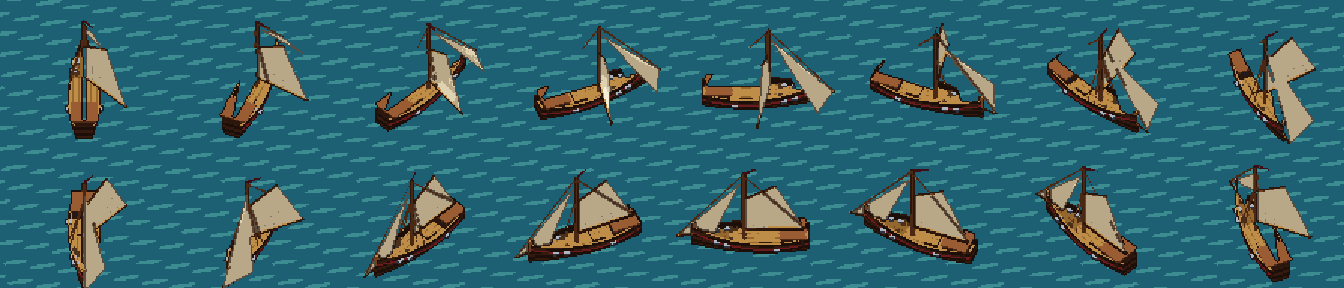
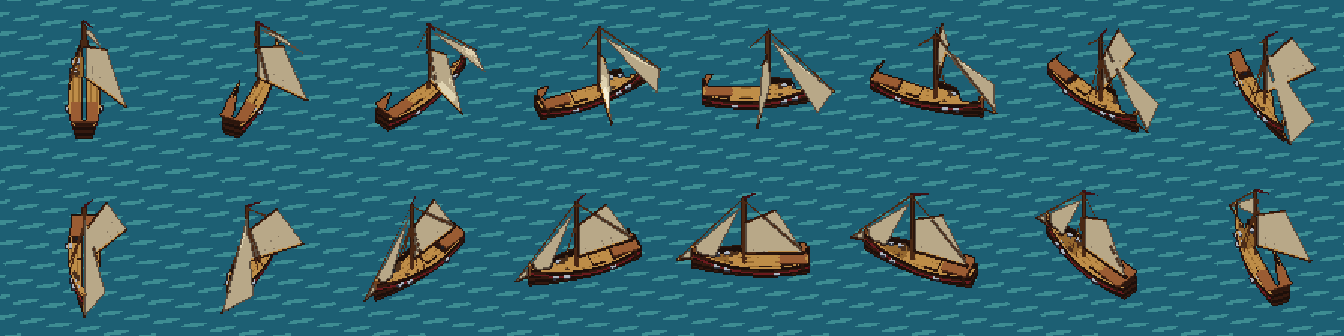
H2D-0: art checker (fixes clipped bow frames and palm), check_all hooks, H2D0_PROTOTYPE.md, Canon v1.4; NOT run in Godot

diff --git a/pixel_pirates/tools/h2d/check_h2d_art.py b/pixel_pirates/tools/h2d/check_h2d_art.py
@@ -1,0 +1,175 @@
+"""Checks the H2D-0 baked art (ship sheets, island maps, tree atlas). Fails on hard errors, only WARNS on readability.
+
+  python tools/h2d/check_h2d_art.py            # run the checks
+  python tools/h2d/check_h2d_art.py --sheet    # also write art_bible/h2d0/ship_adjacent_xor.png
+
+Hard checks: sheet sizes, nothing touches a frame border, the pivot is inside the silhouette's box, colour counts within
+the A3 palette limits (ships 40 colours, 6 ramps), every ship colour comes from palette.json, no #000000 / #ffffff.
+Readability metric: silhouette IoU between neighbouring headings (22.5 deg apart). Too high (> 0.93) means the turn is
+hard to read at that heading; too low (< 0.45) means a visible pop. These are WARNINGS: they quantify, not judge.
+"""
+from __future__ import annotations
+
+import argparse
+import json
+import sys
+from pathlib import Path
+
+import numpy as np
+from PIL import Image
+
+ROOT = Path(__file__).resolve().parents[2]
+ART = ROOT / "game" / "h2d" / "art"
+IOU_HIGH = 0.93
+IOU_LOW = 0.45
+errors: list[str] = []
+warnings: list[str] = []
+
+
+def fail(msg: str) -> None:
+    errors.append(msg)
+
+
+def load(name: str) -> np.ndarray:
+    return np.array(Image.open(ART / name).convert("RGBA"))
+
+
+def colours(a: np.ndarray, alpha_min: int = 128) -> set[str]:
+    m = a[..., 3] >= alpha_min
+    return {"#%02x%02x%02x" % tuple(px) for px in a[m][:, :3]}
+
+
+def palette() -> tuple[dict[str, str], dict]:
+    doc = json.loads((ROOT / "game" / "data" / "look" / "palette.json").read_text())
+    owner: dict[str, str] = {}
+    for rid, ramp in doc["ramps"].items():
+        for c in ramp:
+            owner[c.lower()] = rid
+    return owner, doc["limits"]
+
+
+def check_ship(sheet: bool) -> None:
+    meta = json.loads((ART / "ship_sloop.json").read_text())
+    fw, fh = meta["frame_px"]
+    n = meta["headings"]
+    hull = load(meta["hull_sheet"])
+    sails = load(meta["sail_sheet"])
+    rows = len(meta["trims_deg"])
+    if hull.shape[:2] != (fh, fw * n):
+        fail(f"hull sheet size {hull.shape[:2]} != {(fh, fw * n)}")
+        return
+    if sails.shape[:2] != (fh * rows, fw * n):
+        fail(f"sail sheet size {sails.shape[:2]} != {(fh * rows, fw * n)}")
+        return
+    owner, limits = palette()
+    cols = colours(hull) | colours(sails)
+    used = {owner[c] for c in cols if c in owner}
+    outside = sorted(c for c in cols if c not in owner)
+    if outside:
+        fail(f"ship colours not in palette.json: {outside[:6]}")
+    if len(cols) > limits["max_colours_per_sheet"]["ships"]:
+        fail(f"ship colours {len(cols)} > limit {limits['max_colours_per_sheet']['ships']}")
+    if len(used) > limits["max_ramps_per_asset"]["ships"]:
+        fail(f"ship ramps {len(used)} > limit {limits['max_ramps_per_asset']['ships']}")
+    for bad in limits["forbidden"]:
+        if bad in cols:
+            fail(f"forbidden colour {bad} in ship art")
+    px, py = meta["pivot_px"]
+    sil: list[np.ndarray] = []
+    for k in range(n):
+        h = hull[:, k * fw:(k + 1) * fw]
+        for r in range(rows):
+            s = sails[r * fh:(r + 1) * fh, k * fw:(k + 1) * fw]
+            comp = np.where(s[..., 3:4] >= 128, s, h)
+            a = comp[..., 3] >= 128
+            if not a.any():
+                fail(f"empty frame heading {k} trim {r}")
+                continue
+            if a[0].any() or a[-1].any() or a[:, 0].any() or a[:, -1].any():
+                fail(f"frame touches its border: heading {k} trim {r}")
+            ys, xs = np.nonzero(a)
+            if not (xs.min() <= px <= xs.max() and ys.min() <= py <= ys.max()):
+                fail(f"pivot outside the silhouette box: heading {k} trim {r}")
+            if r == 2:
+                sil.append(a)
+    ious = []
+    for k in range(n):
+        a, b = sil[k], sil[(k + 1) % n]
+        ious.append(float((a & b).sum()) / float((a | b).sum()))
+    print("adjacent-heading silhouette IoU (trim 0 deg), heading k -> k+1:")
+    for k, v in enumerate(ious):
+        flag = ""
+        if v > IOU_HIGH:
+            flag = "  WEAK (hard to read the turn)"
+            warnings.append(f"heading {k * 22.5:g}->{((k + 1) % n) * 22.5:g}: IoU {v:.2f} > {IOU_HIGH}")
+        elif v < IOU_LOW:
+            flag = "  POP"
+            warnings.append(f"heading {k * 22.5:g}->{((k + 1) % n) * 22.5:g}: IoU {v:.2f} < {IOU_LOW}")
+        print(f"  {k * 22.5:6.1f} -> {((k + 1) % n) * 22.5:6.1f}  {v:.3f}{flag}")
+    print(f"  min {min(ious):.3f}  mean {sum(ious) / n:.3f}  max {max(ious):.3f}")
+    print(f"ship: {len(cols)} colours, {len(used)} ramps ({', '.join(sorted(used))})")
+    if sheet:
+        out = np.zeros((fh, fw * n, 3), np.uint8)
+        for k in range(n):
+            a, b = sil[k], sil[(k + 1) % n]
+            f = out[:, k * fw:(k + 1) * fw]
+            f[a & b] = (150, 150, 150)
+            f[a & ~b] = (230, 90, 60)
+            f[~a & b] = (60, 150, 230)
+        dst = ROOT / "art_bible" / "h2d0" / "ship_adjacent_xor.png"
+        Image.fromarray(out).resize((fw * n * 2, fh * 2), Image.NEAREST).save(dst)
+        print("wrote", dst)
+
+
+def check_island() -> None:
+    owner, limits = palette()
+    meta = json.loads((ART / "island_anvil.json").read_text())
+    albedo = load("island_anvil_albedo.png")
+    cols = colours(albedo)
+    outside = sorted(c for c in cols if c not in owner)
+    if outside:
+        fail(f"island albedo colours not in palette.json: {outside[:6]}")
+    cap = limits["max_colours_per_sheet"]["tiles"] + limits["max_colours_per_sheet"]["props"]
+    if len(cols) > cap:
+        fail(f"island albedo colours {len(cols)} > {cap}")
+    data = load("island_anvil_data.png")
+    if data.shape[:2] != albedo.shape[:2]:
+        fail("island data map size differs from albedo")
+    if load("island_anvil_normal.png").shape[:2] != albedo.shape[:2]:
+        fail("island normal map size differs from albedo")
+    print(f"island: {albedo.shape[1]}x{albedo.shape[0]} px, {len(cols)} albedo colours, size {meta.get('size_m')} m")
+    atlas = load("trees_atlas.png")
+    tc = colours(atlas)
+    out_t = sorted(c for c in tc if c not in owner)
+    if out_t:
+        fail(f"tree atlas colours not in palette.json: {out_t[:6]}")
+    if len(tc) > limits["max_colours_per_sheet"]["props"]:
+        fail(f"tree atlas colours {len(tc)} > {limits['max_colours_per_sheet']['props']}")
+    cw, ch = 48, 56
+    if atlas.shape[1] % cw or atlas.shape[0] % ch:
+        fail("tree atlas size is not a multiple of 48 x 56")
+    else:
+        for r in range(atlas.shape[0] // ch):
+            for c in range(atlas.shape[1] // cw):
+                cell = atlas[r * ch:(r + 1) * ch, c * cw:(c + 1) * cw, 3] >= 128
+                if cell.any() and (cell[0].any() or cell[-1].any() or cell[:, 0].any() or cell[:, -1].any()):
+                    fail(f"tree cell ({c},{r}) touches its border")
+    print(f"trees: {len(tc)} colours, atlas {atlas.shape[1]}x{atlas.shape[0]}")
+
+
+def main() -> int:
+    ap = argparse.ArgumentParser()
+    ap.add_argument("--sheet", action="store_true")
+    a = ap.parse_args()
+    check_ship(a.sheet)
+    check_island()
+    for w in warnings:
+        print("WARN", w)
+    for e in errors:
+        print("FAIL", e)
+    print("PASS" if not errors else f"{len(errors)} ERROR(S)", f"({len(warnings)} readability warning(s))")
+    return 1 if errors else 0
+
+
+if __name__ == "__main__":
+    sys.exit(main())

diff --git a/pixel_pirates/tools/check_all.py b/pixel_pirates/tools/check_all.py
@@ -65,6 +65,8 @@ def main() -> int:
         ("ocean tests (world invariants, wildlife seed, slice route, golden fixtures)", [PY, "tools/data_tools/test_ocean.py"], ROOT),
         ("GDScript logic parity (ocean.gd, wildlife.gd and sea_state.gd translated and replayed; NOT a Godot run)", [PY, "tools/data_tools/gd_logic_check.py"], ROOT),
     ]
+    steps.append(("H2D-0 art checks (borders, palette, heading silhouettes)", [PY, "tools/h2d/check_h2d_art.py"], ROOT))
+    steps.append(("H2D-0 shader checks (transpile to GLSL + glslang; lenient, NOT Godot)", [PY, "tools/h2d/check_shaders.py"], ROOT))
     if not a.quick:
         steps.append(("island kit tests", [PY, "tools/island_kit/test_island_kit.py"], ROOT))
     gdlint, gdparse = tool("gdlint"), tool("gdparse")

diff --git a/pixel_pirates/tools/h2d/bake_island.py b/pixel_pirates/tools/h2d/bake_island.py
@@ -238,7 +238,7 @@ def _outline(canvas, name):
 def sprite_palm(variant: int) -> np.ndarray:
     c = np.zeros((CELL_H, CELL_W, 4), dtype=np.uint8)
     rs = np.random.RandomState(100 + variant)
-    lean = [-2.0, 2.6][variant]
+    lean = [-2.0, 1.4][variant]
     pts = []
     for i in range(0, 25):
         t = i / 24.0
@@ -257,7 +257,7 @@ def sprite_palm(variant: int) -> np.ndarray:
     n_f = 11
     for f in range(n_f):
         ang = (f / n_f) * 2 * math.pi + 0.3 * variant
-        length = 14 + 3 * math.sin(f * 2.1)
+        length = 13 + 2.5 * math.sin(f * 2.1)
         for s in range(0, 41):
             t = s / 40.0
             fx = top[0] + math.cos(ang) * length * t

diff --git a/pixel_pirates/tools/h2d/bake_ship.py b/pixel_pirates/tools/h2d/bake_ship.py
@@ -28,7 +28,7 @@ ROOT = Path(__file__).resolve().parents[2]
 PITCH_DEG = 48.0
 PPM = 3.6  # pixels per metre at the art grid
 SS = 4
-FW, FH = 112, 96
+FW, FH = 112, 112
 PIVOT = (56, 66)  # the pixel that sits on the water line at the ship's position
 LIGHT = np.array([-0.5, 0.95, -0.6])
 LIGHT = LIGHT / np.linalg.norm(LIGHT)

diff --git a/pixel_pirates/docs/H2D0_PROTOTYPE.md b/pixel_pirates/docs/H2D0_PROTOTYPE.md
@@ -1,0 +1,62 @@
+# H2D-0: the representative HD-2D ocean scene (PROTOTYPE, NOT YET RUN IN GODOT)
+
+**Status, stated plainly.** Everything below was written and statically checked in a sandbox that cannot run Godot. No shader has been compiled by Godot, no script has run, no frame has been rendered, and **no performance number exists**. What did run: the Python art bakers, the art checker, a GLSL syntax pass over the shaders, gdparse/gdlint on the scripts, and a Python replay of the pure logic. The look, the colour transfer and the speed on the dev PC are all unknown until the user runs it.
+Also unconfirmed: the E1b self-test. The user reported "it works", but `build\slice_selftest.txt` never arrived, so the GPU, driver and OpenGL version of the HD 3000 are still unknown, and E2 stays blocked.
+
+## 1. What the scene is
+One playable ocean scene (`game/h2d/h2d0.tscn`): a pixel-art sloop (16 headings x 5 sail trims, wind-aware) on an animated ocean, with one island, Anvil Cay (160 m, 93 trees, a hill), in the real E1 weather (checkpoints 1-7). The simulation is the validated E1 one (Ocean, SeaState, world clock, weather smoothing). Only the picture is new, behind the single `SeaView` interface (D1):
+
+| Path | File | What it is |
+|---|---|---|
+| 3D | `sea_view_3d.gd` | Real 3D scene in the Compatibility renderer, drawn into a SubViewport at the art grid and shown with nearest-neighbour upscaling. Camera FOV 22 deg, pitch 48 deg, north-up (D3). Sprites are billboards with depth bias; ocean, island and shadows are shaders; our own tilt-shift/grade/posterise post pass (Compatibility has no DOF blur). |
+| 2D | `sea_view_2d.gd` | The E1 painter (`sea_painter.gd`) wrapped as the lightweight fallback. Still the side-view prototype look; kept only as a fallback. |
+
+Quality profiles (3D): **dev_lite** 640x360, ocean mesh div 64, 6 shadow steps, posterise 12; **standard** 1280x720, div 128, 10 steps, posterise 16; **ultra** 1920x1080, div 192, 12 steps, posterise 24. Dev-Lite is a setting, not the product: the final game keeps full quality on capable hardware.
+
+## 2. How to run (Windows)
+Same Godot lookup as the slice: `tools\godot_path.txt` or `GODOT_EXE`. From the project folder:
+- `tools\run_h2d0.bat` interactive. If the window is black or Godot reports an OpenGL error, try `tools\run_h2d0.bat angle` (forces the ANGLE/Direct3D 11 driver; whether it works on an HD 3000 is unverified).
+- `tools\run_h2d0_bench.bat` (or `... angle`): about 80 s, hands off. Writes `build\h2d0_bench.txt`, `build\h2d0_bench_01.png` ... one screenshot per phase, and `build\h2d0_console.txt` (all Godot output, including shader errors).
+- Keys: A/D steer, 1-7 weather, P pause, R reset ship, F1 quality, F2 3D/2D, F3 HUD, F4 flip colour transfer, F12 screenshot, `[` `]` pitch, `-` `=` exposure, `,` `.` visual speed, B benchmark.
+
+**What to send back:** `build\h2d0_bench.txt`, the screenshots (at least `h2d0_bench_01.png`, `_04`, `_06`), and `build\h2d0_console.txt`. Also, if the first run looks wrong (too dark, washed out, black), press F4 and say what changed. If there is a black window or an error, send only `h2d0_console.txt`.
+
+## 3. The benchmark
+11 phases, each 1.5 s warm-up + 5 s measured, vsync off, the ship steered by a fixed sine so it turns and sails:
+3D Dev-Lite x5 (checkpoints 2, 1, 4, 6, 7), 3D Standard x3 (2, 1, 6), 3D Ultra x1 (2), 2D x2 (2, 6).
+Per phase: average fps, 1% low fps, worst frame ms, draw calls, objects, triangles, VRAM, and a picture sanity check (not flat, not black/white, not magenta). Header: adapter, vendor, API, driver, renderer, CPU, RAM, window size, colour-transfer result.
+**Target (provisional, mine):** Dev-Lite average >= 30 fps and 1% low >= 20 fps in every phase. Standard and Ultra rows are information only. The report states MEETS TARGET or BELOW TARGET from the measured numbers; it never says passed otherwise.
+
+## 4. Decisions made here (all PROVISIONAL, owner H2D-1)
+- **Scale:** 1 scene metre = 10 world metres; scene speed = world speed / 10. A 5 kn sloop moves 24.7 scene m/s (`scene_speed_ms`); the sloop is about 22 scene m long. This is a presentation scale, chosen so a ship crosses the screen in seconds; it needs a decision in H2D-1.
+- **Ship art:** 112 x 112 px frames, pivot (56, 66), 3.6 px per metre, 22 colours from 6 palette ramps. Sheet = 16 headings (22.5 deg) x 5 trim rows (-80, -45, 0, 45, 80 deg boom angle). The sail row comes from the wind angle: |rel| < 50 deg row 2; 50-110 rows 1/3; >= 110 rows 0/4; side by wind side.
+- **Waves:** four summed sines (46/27/15/8.5 m wavelengths), computed in the ocean shader and mirrored in `wave_model.gd` so the ship bobs with the water (bob snapped to whole art pixels).
+- **Light:** `light_model.gd`: sun 05-19 h, noon elevation = clamp(78 - 0.55|lat|, 18, 78), moon at night, cloud/storm grey the key light, fog density from visibility, lightning pulse about every 7 s in a storm.
+- **Loading:** PNGs are loaded with `Image.load_from_file` (not the import pipeline), to avoid VRAM compression that would corrupt pixel art. Global shader uniforms `h2d_*` are registered at start-up.
+- **Colour transfer:** the Compatibility 3D pass may or may not apply an sRGB encode; the scene draws a known 0.5 grey quad, reads it back and picks gamma 2.2 or 1.0 (`calibration_note`, F4 flips it by hand).
+- **Grounding:** the ship cannot enter cells where the island height is above 0.3 m; it stops and says AGROUND.
+
+## 5. What the checks cover, and what they do not
+| Check | Covers | Does NOT cover |
+|---|---|---|
+| `tools/h2d/check_h2d_art.py` | sheet sizes, no sprite touches its frame border, pivot inside the silhouette, every colour in `palette.json`, colour and ramp limits, adjacent-heading silhouette IoU | whether the art looks good |
+| `tools/h2d/check_shaders.py` | each shader transpiled to GLSL and run through glslang (undeclared names, type mismatches; mutation-tested) | anything Godot-specific: render modes, built-in availability per stage, global uniform registration, `pow(x, 3)` int strictness (it is MORE lenient than Godot) |
+| `tests/test_h2d.gd` + fixture | ship-frame, trim-row and wave maths vs the Python twin (186+ style) | never executed in Godot |
+| gdparse / gdlint | syntax and style | types, runtime errors |
+
+**Real defects the art check found and fixed:** the bow-toward-camera headings (157.5, 180, 202.5 deg) were clipped at the bottom of the 96 px frame (frame is now 112 px tall), and a palm frond was clipped at the right edge of its atlas cell (lean and frond length reduced).
+**Silhouette IoU between neighbouring headings** (trim 0): min 0.475, mean 0.55, max 0.635. So every 22.5 deg step changes the silhouette clearly (no heading is indistinct, no warning raised). That is a shape metric only: the contact sheet (`art_bible/h2d0/ship_headings_sheet.png`) still shows ugly sails at some headings, the due-N/S frames look the most awkward, and the sail reads as a flat sheet beside the hull rather than rigging. Acceptable for a prototype; the art is not final.
+
+## 6. Known risks, in the order I would expect them to bite
+1. A shader fails to compile in Godot (the checker is lenient). Symptom: black/odd scene, error in `h2d0_console.txt`.
+2. Colour transfer wrong (picture too dark/pale): F4.
+3. Billboard sprites cut by the ocean (the ocean is drawn first with depth writes off, sprites are pulled toward the camera).
+4. The HD 3000 driver cannot do the 3D path at all (OpenGL 3.1). Then the `angle` argument, or the 2D path, is the answer; this is exactly what the benchmark decides.
+5. No texel snapping of the sprites: some sub-pixel crawl while moving.
+6. The ocean ignores the island (no shore wash in the water), the island is flat-lit in the preview and the hill looks muddy there.
+
+## 7. What H2D-0 does not prove
+It does not prove the HD-2D look is right, that Dev-Lite reaches 30 fps, that the 2D fallback is acceptable, or that the sprite pipeline scales to many ships. It is the smallest scene that can answer those once it has run.
+
+## 8. Files
+`game/h2d/` (scripts, `shaders/`, `art/`), `game/tests/test_h2d.gd`, `game/tests/fixtures/ship_sprite_cases.json`, `tools/h2d/` (`bake_ship.py`, `bake_island.py`, `ship_model.py`, `ship_sprite_logic.py`, `make_fixture.py`, `check_h2d_art.py`, `check_shaders.py`), `tools/run_h2d0*.bat|.sh`, `art_bible/h2d0/` (previews). Rebake: `python tools/h2d/bake_ship.py --preview`, `python tools/h2d/bake_island.py --preview`.

diff --git a/pixel_pirates/docs/CANON_BIBLE.md b/pixel_pirates/docs/CANON_BIBLE.md
@@ -1,4 +1,4 @@
-# CANON BIBLE - Crown of the Seas (working title) - v1.3 (after A2-A7, B1, B2, T1 time revision, B4 economy, E1 ocean and slice, V1 visual lock, D1-D4 decisions)
+# CANON BIBLE - Crown of the Seas (working title) - v1.4 (after A2-A7, B1, B2, T1 time revision, B4 economy, E1 ocean and slice, V1 visual lock, D1-D4 decisions, H2D-0 prototype written)
 Drive folder: "Pixel Pirates". Repo path: pixel_pirates/.
 
 ## Hard content rules
@@ -149,11 +149,14 @@ The final game is **HD-2D in the manner of Octopath Traveler / Octopath Traveler
 - **D4 order:** run the E1b self-test first; then H2D-0 = ONE representative, playable HD-2D ocean scene with a pixel-art ship, visible steering and movement, convincing ocean depth, at least one island, representative weather, and a performance report from actual runs on the user's PC. Nothing is called passed unless it ran in Godot. E2 stays blocked.
 **E1b changes:** compass-fixed sky and swell (turning visibly turns the world), ship leans into turns, IN IRONS warning, scripted self-test (`tools\run_slice_selftest.bat`, not yet run), spec wording fix (14 kn is the reference wind; the sloop makes 5 kn).
 
+## H2D-0 prototype (written, NOT run in Godot) - full text in docs/H2D0_PROTOTYPE.md
+One playable HD-2D scene: `tools\run_h2d0.bat`; benchmark `tools\run_h2d0_bench.bat` (about 80 s, writes build\h2d0_bench.txt + screenshots). 3D Compatibility path (FOV 22, pitch 48, north-up, SubViewport at the art grid, own tilt-shift/grade post) and 2D fallback behind one `SeaView` interface. Profiles dev_lite 640x360 / standard 1280x720 / ultra 1920x1080. Sloop sprite: 16 headings x 5 sail trims, 112x112 frames, pivot (56,66), 3.6 px/m, 22 colours. Anvil Cay demo island (160 m). Provisional scale: 1 scene m = 10 world m. Dev-Lite target (mine, provisional): avg >= 30 fps, 1% low >= 20 fps. No performance figure exists; the shader checker is lenient and is not Godot.
+
 ## Island registry (50+ planned)
 Generated: docs/ISLAND_REGISTRY.md. Currently empty. Format: ID (isl_NNN) | name | tier | biome | position | distances to neighbours | status (planned/designed/built/tested). Filled from E3.
 
 ## Open questions
-V1/E1b: run `tools\\run_slice_selftest.bat` on the dev PC and send build\\slice_selftest.txt (includes GPU adapter and driver). D1-D4 are answered; H2D-0 starts after the self-test result; E2 stays blocked.
+H2D-0: run `tools\run_h2d0_bench.bat` on the dev PC and send build\h2d0_bench.txt, the screenshots and build\h2d0_console.txt. The E1b self-test file (build\slice_selftest.txt) was never received (the user said only that it works), so GPU and driver are still unknown. E2 stays blocked until the H2D-0 results are in and the next step is defined.
 E1: run tools\\run_godot_tests.bat (new: test_ocean, test_sea_state, test_console), then tools\\run_slice.bat and answer the 10-point checklist in docs/E1_WORLD_SPEC.md section 11; confirm the E1 decisions, especially the reference speed and the sea-view direction. E2 must place islands against the region quotas and the exact times above.
 B4: first run of core/market.gd and tests/test_market.gd on the user's PC; confirm the B4 decisions (Heavy Money, shares from prizes only, deterministic prices); B5 must price the ships against the windfall size.
 T1: first run of core/voyage_clock.gd, core/world_clock.gd, tests/test_voyage_clock.gd, tests/test_world_clock.gd on the user's PC; confirm the T1 decisions; visual test of the six day/night bands (I19).
